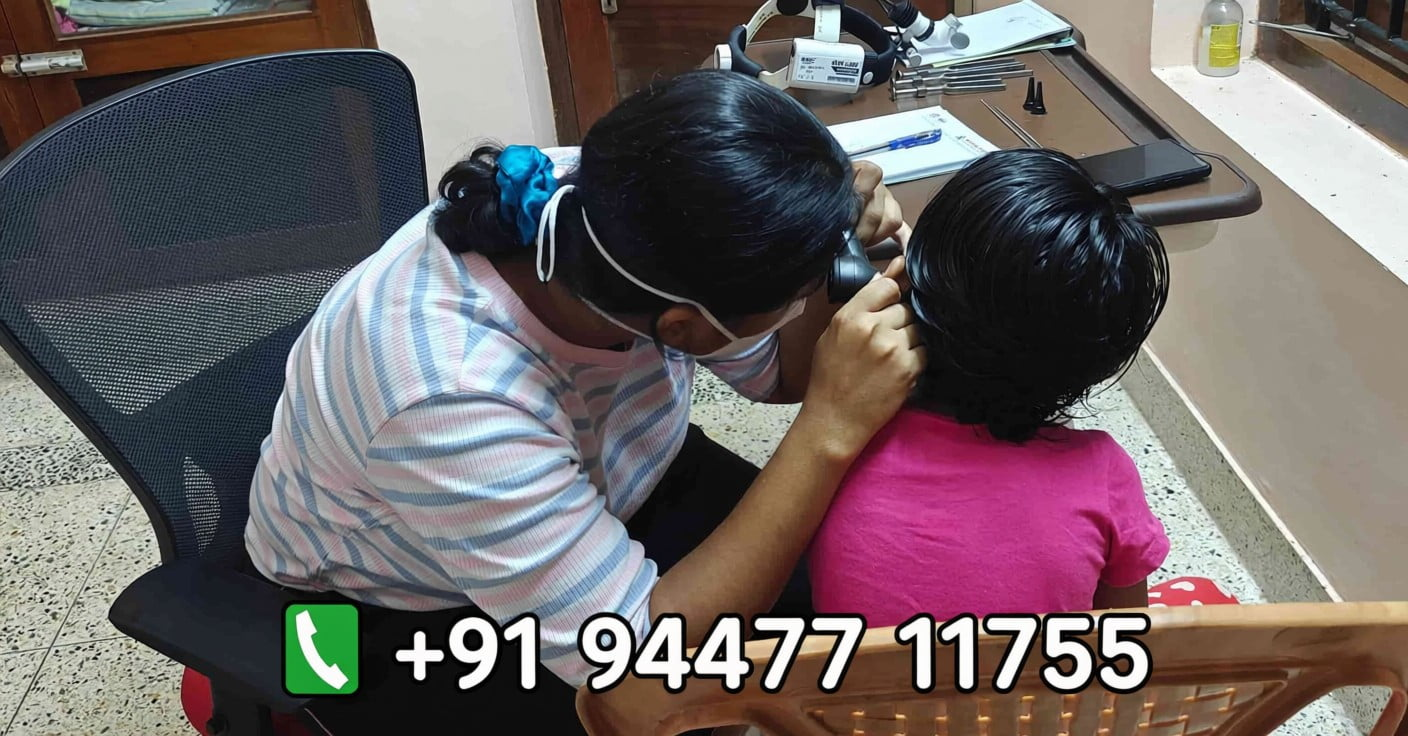
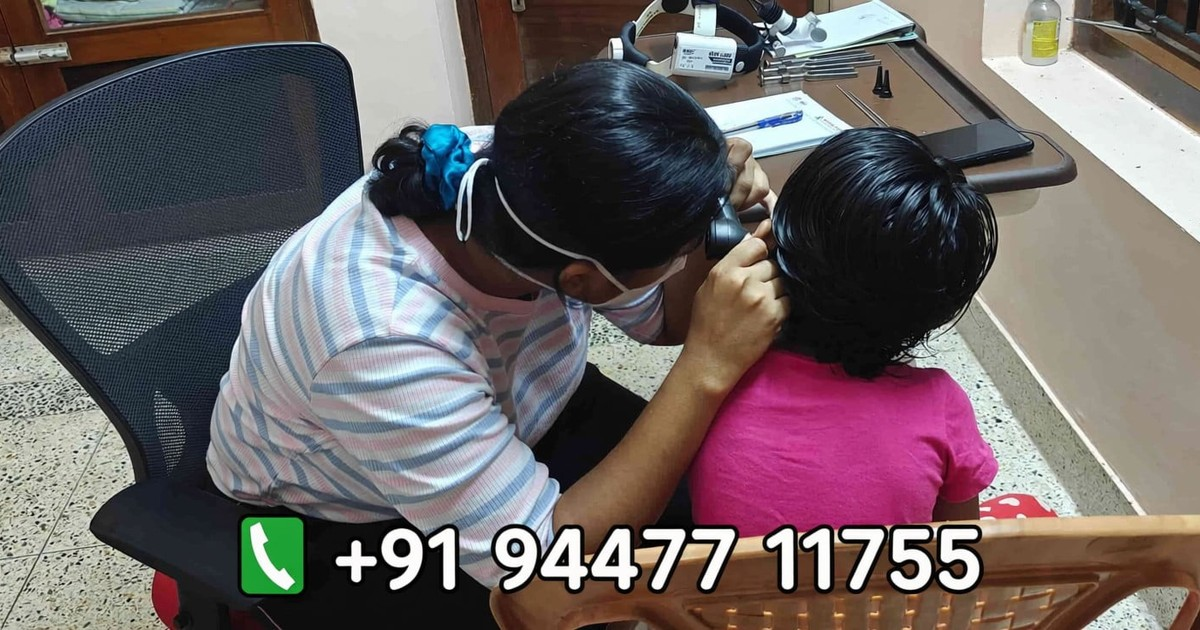
chore(config): update gitignore, next.config.ts, and resize og-image to 1200x630

diff --git a/next.config.ts b/next.config.ts
@@ -1,21 +1,18 @@
-import type {NextConfig} from 'next';
+import type { NextConfig } from 'next';
 
 const nextConfig: NextConfig = {
   reactStrictMode: true,
-  eslint: {
-    ignoreDuringBuilds: true,
-  },
   typescript: {
     ignoreBuildErrors: false,
   },
-  // Allow access to remote image placeholder.
+  // Allow access to remote images
   images: {
     remotePatterns: [
       {
         protocol: 'https',
         hostname: 'picsum.photos',
         port: '',
-        pathname: '/**', // This allows any path under the hostname
+        pathname: '/**',
       },
       {
         protocol: 'https',
@@ -33,9 +30,8 @@ const nextConfig: NextConfig = {
   },
   output: 'standalone',
   transpilePackages: ['motion'],
-  webpack: (config, {dev}) => {
+  webpack: (config, { dev }) => {
     // HMR is disabled in AI Studio via DISABLE_HMR env var.
-    // Do not modifyâfile watching is disabled to prevent flickering during agent edits.
     if (dev && process.env.DISABLE_HMR === 'true') {
       config.watchOptions = {
         ignored: /.*/,
